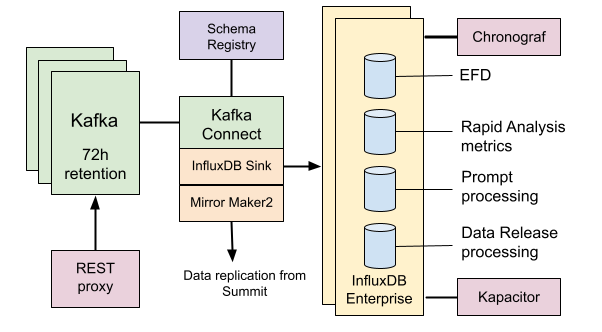
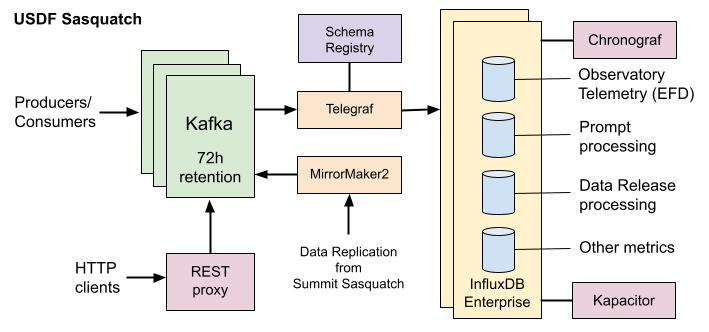
Update administrator guide
- Rename section developer guide to administrators
- Refresh Sasquatch architecture section
- Update architecture diagram

diff --git a/docs/admin/managing-shards.rst b/docs/admin/managing-shards.rst
@@ -31,8 +31,8 @@ For example, the following command lists the shard IDs for the EFD database and 
     kubectl -n sasquatch exec -it sasquatch-influxdb-enterprise-meta-0 -- influxd-ctl show-shards | awk '$2 == "efd" { print $1, $2, $6, $7 }' | sort -k1,1n
 
 
-In Sasquatch deployments, the InfluxDB cluster has replication factor two, meaning that each shard is replicated on two data nodes. 
-The data nodes where the shards are stored is reported under the Owners column. 
+In Sasquatch deployments, the InfluxDB cluster has replication factor two, meaning that each shard is replicated on two data nodes.
+The data nodes where the shards are stored is reported under the Owners column.
 
 Detailed information about the shards such as State (hot or cold), Last Modified Time and Size can be obtained by running the ``influxd-ctl show-shards -v`` command.
 
@@ -60,12 +60,12 @@ To verify the integrity of a shard across the cluster, use the ``influx_inspect`
 
 This command checks the integrity of the `Time-Structured Merge Tree (TSM)`_ files.
 
-The same shard can differ in size across the cluster due to compaction and other operations. 
+The same shard can differ in size across the cluster due to compaction and other operations.
 The ``influx_inspect verify`` command checks the integrity of the shard data, not the size.
 
-Read more about shard compaction operations in the InfluxDB `storage engine`_ documentation. 
+Read more about shard compaction operations in the InfluxDB `storage engine`_ documentation.
 
-The `Anti-Entropy service`_ in InfluxDB Enterprise ensures that the data is consistent across the cluster by comparing the data in the shards on different data nodes. 
+The `Anti-Entropy service`_ in InfluxDB Enterprise ensures that the data is consistent across the cluster by comparing the data in the shards on different data nodes.
 However, this tool consumes too much resources and InfluxData recommended turning it off in Sasquatch.
 
 Shard movement
@@ -80,9 +80,9 @@ Read more about cluster `rebalancing`_ in the InfluxDB documentation.
 Backup and restore
 ==================
 
-The ``influxd-ctl`` tool provides commands to backup and restore shards. 
+The ``influxd-ctl`` tool provides commands to backup and restore shards.
 
-A meta node doesn't have enough space to keep the backup files. 
+A meta node doesn't have enough space to keep the backup files.
 To perform backup and restore operations, download the ``influxd-ctl`` tool and bind it to a meta node.
 Download the ``influxd-ctl`` tool from the InfluxData website:
 
@@ -90,7 +90,7 @@ Download the ``influxd-ctl`` tool from the InfluxData website:
 
     wget https://dl.influxdata.com/enterprise/releases/influxdb-meta-1.11.3_c1.11.3-1.x86_64.rpm
     rpm2cpio influxdb-meta-1.11.3_c1.11.3-1.x86_64.rpm | cpio -idmv
-    
+
 
 To backup a shard, use the ``influxd-ctl backup``:
 
@@ -109,19 +109,19 @@ Where ``<shard ID>`` identifies the shard to be restored from the backup and ``<
 
 .. note::
 
-    If you are restoring a shard from the same database, ``<new shard ID>`` is the same as the ``<shard ID>``.  
+    If you are restoring a shard from the same database, ``<new shard ID>`` is the same as the ``<shard ID>``.
 
     If you are restoring a shard from a different database (e.g. restoring data the Summit EFD database to the USDF EFD database) **shard IDs do not align**, and so ``<new shard ID>`` should reflect the shard ID in the destination database which has **the same same start time** as in the source database.
 
 
 
-Hot shards can be truncated using the ``influxd-ctl truncate-shards`` command before backup and restore operations. 
-After truncating a shard, another shard is created and new writes are directed to the new shard. 
+Hot shards can be truncated using the ``influxd-ctl truncate-shards`` command before backup and restore operations.
+After truncating a shard, another shard is created and new writes are directed to the new shard.
 Truncated shards are marked as cold.
 
-For cold shards, it is possible to manually copy the shard TSM files to one of the destination data nodes under the appropriate directory, and then use the ``influxd-ctl copy-shards`` command to copy the shard to the other data node. 
+For cold shards, it is possible to manually copy the shard TSM files to one of the destination data nodes under the appropriate directory, and then use the ``influxd-ctl copy-shards`` command to copy the shard to the other data node.
 
-This procedure was applied to restore shard 786 at the USDF EFD database, after InfluxData ran an offline compaction of that shard to fix a slow query issue. 
+This procedure was applied to restore shard 786 at the USDF EFD database, after InfluxData ran an offline compaction of that shard to fix a slow query issue.
 In this case the shard restore is as follows:
 
 .. code-block:: bash
@@ -132,8 +132,8 @@ In this case the shard restore is as follows:
     # Manually remove the TSM and index files from shard 786 in data-0:
     kubectl exec -it sasquatch-influxdb-enterprise-data-0 -n sasquatch -- /bin/bash
     cd /var/lib/influxdb/data/efd/autogen/
-    rm -r 786 
-         
+    rm -r 786
+
     # Manually copy the fully compacted TSM and index files for shard 786 to data-0
     kubectl -n sasquatch cp efd/autogen/786/  sasquatch-influxdb-enterprise-data-0:/var/lib/influxdb/data/efd/autogen/
 
@@ -149,7 +149,7 @@ Finally, restart the InfluxDB data statefulset to reload the shards data and reb
 .. note::
 
     The difference between removing the shard files manually and using the ``influxd-ctl remove-shard`` command is that, the ``remove-shard`` command removes the shard from the meta node and the data node, while manually removing the shard TSM and index files only removes the shard data (the data node is still listed as owner of that shard).
-    
+
 
 .. _influxd-ctl: https://docs.influxdata.com/enterprise_influxdb/v1/tools/influxd-ctl/
 .. _influx_inspect: https://docs.influxdata.com/enterprise_influxdb/v1/tools/influx_inspect/

diff --git a/docs/admin/architecture.rst b/docs/admin/architecture.rst
@@ -1,0 +1,59 @@
+.. _architecture:
+
+######################
+Sasquatch Architecture
+######################
+
+A typical Sasquatch deployment consists of the following main components:
+
+.. figure:: /_static/sasquatch_architecture_single.png
+   :name: Sasquatch architecture
+   :alt: Sasquatch architecture diagram
+   :align: center
+
+Apache Kafka
+------------
+
+In Sasquatch, `Kafka`_ is used as a message queue to InfluxDB and for data replication between Sasquatch :ref:`environments`.
+
+Kafka is managed by the `Strimzi`_ operator.
+In addition to the Strimzi components, Sasquatch uses the Confluent Schema Registry to manage Avro schemas for kafka topics, and the Confluent Kafka REST proxy to connect HTTP-based clients with Kafka.
+
+.. _Kafka: https://kafka.apache.org
+.. _Strimzi: https://strimzi.io
+
+
+Telegraf connectors
+-------------------
+
+Telegraf connectors are used to read data from Kafka topics and write to InfluxDB.
+
+Data is organized by :ref:`namespaces` which map to databases in InfluxDB.
+
+
+MirrorMaker2
+------------
+
+MirrorMaker2 is used for data replication between Sasquatch :ref:`environments`.
+Two-way replication is supported.
+
+
+InfluxDB Enterprise
+-------------------
+
+InfluxDB is a `time series database`_ optimized for efficient storage and querying time-series data.
+Sasquatch uses InfluxDB Enterprise v1 to support high-availability and clustering.
+
+InfluxDB provides an SQL-like query language called `InfluxQL`_ and a data scripting language called `Flux`_.
+Both languages can be used in Chronograf for data exploration and visualization.
+Kapacitor is used for alerting and data processing.
+
+Read more about the Sasquatch architecture in `SQR-068`_.
+
+.. _kafka-connect-manager: https://kafka-connect-manager.lsst.io/
+.. _time series database: https://www.influxdata.com/time-series-database/
+.. _InfluxQL: https://docs.influxdata.com/influxdb/v1.8/query_language/
+.. _Flux: https://docs.influxdata.com/influxdb/v1.8/flux/
+.. _SQR-068: https://sqr-068.lsst.io
+
+

diff --git a/docs/index.rst b/docs/index.rst
@@ -1,23 +1,47 @@
-:og:description: Rubin Observatory telemetry and metrics service
+:og:description: Rubin Observatory's telemetry and metrics service
 :html_theme.sidebar_secondary.remove:
-
-########
-Overview
-########
-
-Sasquatch is the Rubin Observatory's service for metrics and telemetry data.
-
-Built on Kafka and InfluxDB, Sasquatch offers a comprehensive solution for collecting, storing, and querying time-series data.
-
-Sasquatch is currently deployed at the Summit, USDF and test stands through `Phalanx`_.
 
 .. toctree::
    :hidden:
 
    User guide <user-guide/index>
    Environments <environments>
-   Developer guide <developer-guide/index>
+   Administrators <admin/index>
    FAQ <faq>
    Resources <resources>
+
+#########
+Sasquatch
+#########
+
+Sasquatch is the Rubin Observatory's service for metrics and telemetry data.
+
+Built on Apache Kafka and InfluxDB, Sasquatch offers an efficient solution for collecting, storing and querying time-series data.
+
+See the :ref:`user-guide` for more information on Sasquatch and how to use it within the different Rubin Observatory :ref:`environments`.
+
+Sasquatch is deployed through Phalanx_.
+
+
+.. grid:: 2
+   :gutter: 3
+
+   .. grid-item-card:: User Guide
+      :link: user-guide/index
+      :link-type: doc
+
+      Learn how to access, visualize and send data to Sasquatch.
+
+   .. grid-item-card:: Environments
+      :link: environments
+      :link-type: doc
+
+      See the different environments where Sasquatch is deployed.
+
+   .. grid-item-card:: Administrators
+      :link: admin/index
+      :link-type: doc
+
+      Learn how administer and troubleshoot Sasquatch.
 
 .. _Phalanx: https://phalanx.lsst.io

diff --git a/docs/admin/index.rst b/docs/admin/index.rst
@@ -1,13 +1,13 @@
-###############
-Developer guide
-###############
+##############
+Administrators
+##############
 
-This part of the Sasquatch documentation contains information primarily of interest to developers of Sasquatch itself.
-A Sasquatch developer is responsible for maintaining the Sasquatch components and its deployments.
+This part of the Sasquatch documentation contains information for Sasquatch administrators.
+A Sasquatch administrator is responsible for maintaining the Sasquatch components and its deployments.
 
 
 .. toctree::
-   :caption: Sasquatch architecture
+   :caption: Overview
 
    architecture
 

diff --git a/docs/user-guide/index.rst b/docs/user-guide/index.rst
@@ -1,4 +1,6 @@
-:og:description: Learn how to use sasquatch.
+:og:description: Learn how to use Sasquatch.
+
+.. _user-guide:
 
 ##########
 User guide
